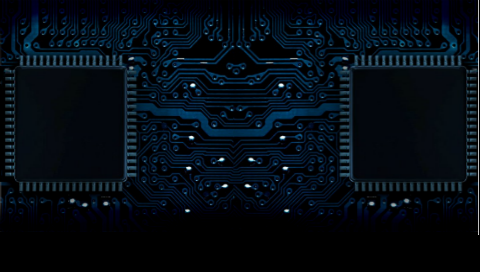
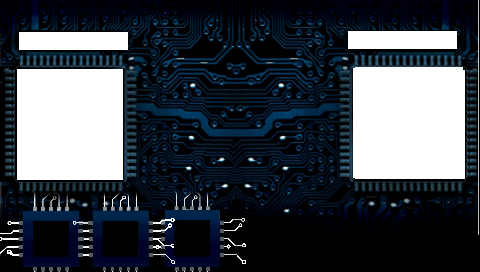
Updated the diceScreen so that it is more user friendly. It now has some basic interactoin with the battle class updated the battle screen so it has getters

diff --git a/app/src/main/java/uk/ac/qub/eeecs/game/RiskGame/DiceRollScreen.java b/app/src/main/java/uk/ac/qub/eeecs/game/RiskGame/DiceRollScreen.java
@@ -5,7 +5,6 @@ import android.graphics.Bitmap;
 import android.graphics.Color;
 import android.graphics.Paint;
 import android.graphics.Rect;
-
 import java.util.List;
 import uk.ac.qub.eeecs.gage.Game;
 import uk.ac.qub.eeecs.gage.engine.AssetManager;
@@ -17,6 +16,10 @@ import uk.ac.qub.eeecs.gage.ui.PushButton;
 import uk.ac.qub.eeecs.gage.util.ViewportHelper;
 import uk.ac.qub.eeecs.gage.world.GameScreen;
 import uk.ac.qub.eeecs.gage.world.ScreenViewport;
+import uk.ac.qub.eeecs.game.RiskGame.Battle;
+import uk.ac.qub.eeecs.game.RiskGame.RiskGameScreen;
+import uk.ac.qub.eeecs.game.RiskGame.Player;
+import uk.ac.qub.eeecs.game.RiskGame.Area;
 
 /**
  * Starter class for Card game stories
@@ -30,7 +33,6 @@ public class DiceRollScreen extends GameScreen {
     // /////////////////////////////////////////////////////////////////////////
 
     private Bitmap background;
-
     //////Dice Roll//////////
     private int numOfDice =0;
     private int numOfDiceTemp =0;
@@ -43,25 +45,30 @@ public class DiceRollScreen extends GameScreen {
     private PushButton mSelectDiceNum;
     private PushButton mSelectDiceNum2;
     private PushButton mSelectDiceNum3;
+    private PushButton mAbortHack;
+    private PushButton mRollDice;
     //end of dice items
 
     private Paint textPaint = new Paint();
     //the num_of_dice will be set by the player
     private DiceRoll diceRoll = new DiceRoll(numOfDice);
-    private DiceRoll diceRollDef = new DiceRoll(numOfDice);
+
+    //extra detail
+    private String attackersName = "";
+    private int attackersColour = -01000016;
+
+    private String defendersName = "";
+    private int defendersColour = -01000016;
 
 
-    private PushButton mReturnToMenuButton;
-    private PushButton mRollDice;
     private ScreenViewport mGameScreenViewport;
     private float mTimeToChange = 0;
 
     public DiceRollScreen(Game game) {
         super("RiskScreen", game);
         AssetManager assetManager = mGame.getAssetManager();
-        assetManager.loadAndAddBitmap("BackArrow", "img/BackArrow.png");
-        assetManager.loadAndAddBitmap("BackArrowSelected", "img/BackArrowSelected.png");
-        assetManager.loadAndAddBitmap("SpaceDemoIcon", "img/SpaceDemoIcon.png");
+        assetManager.loadAndAddBitmap("AbortHack", "img/dice/AbortHack.png");
+        assetManager.loadAndAddBitmap("AbortHackSelected", "img/dice/AbortHackSelected.png");
 
         //dice assets
         assetManager.loadAndAddBitmap("Roll1", "img/dice/Roll1.png");
@@ -74,17 +81,16 @@ public class DiceRollScreen extends GameScreen {
         assetManager.loadAndAddBitmap("ChooseDiceNumber3", "img/dice/ChooseDiceNumber3.png");
         assetManager.loadAndAddBitmap("background","img/dice/DiceRollScreenBackGround.png" );
 
-        //The backGround
+        //The background
         background = assetManager.getBitmap("background");
 
-
-        mReturnToMenuButton = new PushButton(
-                mDefaultLayerViewport.getWidth() * 0.95f,
-                mDefaultLayerViewport.getHeight() * 0.80f,
-                mDefaultLayerViewport.getWidth() * 0.075f,
-                mDefaultLayerViewport.getHeight() * 0.10f,
-                "BackArrow", "BackArrowSelected", this);
-        mReturnToMenuButton.setPlaySounds(true, true);
+        mAbortHack = new PushButton(
+                mDefaultLayerViewport.getWidth() * 0.65f,
+                mDefaultLayerViewport.getHeight() * 0.1f,
+                mDefaultLayerViewport.getWidth() * 0.15f,
+                mDefaultLayerViewport.getHeight() * 0.2f,
+                "AbortHack", "AbortHackSelected", this);
+        mAbortHack.setPlaySounds(true, true);
 
         //draws the dice hud.
         DrawDiceButtons();
@@ -95,6 +101,16 @@ public class DiceRollScreen extends GameScreen {
         mGameScreenViewport =
                 new ScreenViewport(0, 0, (int) screenWidth, (int) screenHeight);
 
+        /////////////// Battle Class Test ///////////////////////////////
+        //philip testing
+
+        Player attacker = new Player("Google", -01000016 );
+        Player defender = new Player("Apple", -01006616 );
+        Area area1 = new Area();
+        Area area2 = new Area();
+
+        Battle battle = new Battle(attacker, defender, area1, area2);
+        attackersName = battle.attackersName();
 
     }
 
@@ -122,8 +138,8 @@ public class DiceRollScreen extends GameScreen {
             mSelectDiceNum2.update(elapsedTime);
             mSelectDiceNum3.update(elapsedTime);
 
-            mReturnToMenuButton.update(elapsedTime);
-            if (mReturnToMenuButton.isPushTriggered())
+            mAbortHack.update(elapsedTime);
+            if (mAbortHack.isPushTriggered())
                 mGame.getScreenManager().removeScreen(this);
 
             //dice functions
@@ -145,7 +161,7 @@ public class DiceRollScreen extends GameScreen {
      */
     @Override
     public void draw(ElapsedTime elapsedTime, IGraphics2D graphics2D) {
-        graphics2D.clear(Color.WHITE);
+        graphics2D.clear(Color.BLACK);
 
 
         int screenWidth = graphics2D.getSurfaceWidth();
@@ -156,7 +172,7 @@ public class DiceRollScreen extends GameScreen {
         Rect destRect = new Rect((int) (screenWidth * 0.0f), (int) (screenHeight * 0.0f), (int) (screenWidth * 1.0f), (int) (screenHeight * 1.0f));
         graphics2D.drawBitmap(background, sourceRect, destRect, null);
 
-        mReturnToMenuButton.draw(elapsedTime, graphics2D, mDefaultLayerViewport, mDefaultScreenViewport);
+        mAbortHack.draw(elapsedTime, graphics2D, mDefaultLayerViewport, mDefaultScreenViewport);
 
 
         //draw the roll button, currently the attShowRoll isn't used
@@ -178,29 +194,38 @@ public class DiceRollScreen extends GameScreen {
                 break;
         }
 
-
-
-
+        //Details to be shown on the screen
         float textSize =
                 ViewportHelper.convertXDistanceFromLayerToScreen(
                         mDefaultLayerViewport.getHeight() * 0.05f,
                         mDefaultLayerViewport, mDefaultScreenViewport);
 
-        float lineHeight = screenHeight / 30.0f;
+        float lineHeight = screenHeight / 20.0f;
         textPaint.setTextSize(lineHeight);
         textPaint.setTextAlign(Paint.Align.LEFT);
+        textPaint.setColor(-01000016);
 
-        String diceString = "Dice Results: [ ";
-        for (int i = 0; i < numOfDice; i++) diceString += diceRoll.getDiceResults()[i] + " ";
+
+        String diceString = "Results: [ ";
+        for (int i = 0; i < numOfDice; i++) diceString += diceRoll.getDiceResults()[i] + ", ";
         graphics2D.drawText(diceString + "]",
-                0.0f, lineHeight + 120.0f, textPaint);
+                screenWidth * 0.45f, lineHeight + 250.0f, textPaint);
 
-        graphics2D.drawText("Total: [ " + diceRoll.getTotal() + " ]",
-                0.0f, lineHeight + 160.0f, textPaint);
+        graphics2D.drawText("Total: [ " + diceRoll.getTotal() + " ]", screenWidth * 0.45f, lineHeight + 200.0f, textPaint);
+
+        //graphics2D.drawText("Attackers Name", screenWidth * 0.05f, lineHeight + 140.0f, textPaint);
+        //graphics2D.drawText("Defend Name", screenWidth * 0.75f, lineHeight + 140.0f, textPaint);
+
+        //graphics2D.drawText("Attack Colour", 0.0f, lineHeight + 300.0f, textPaint);
+        //graphics2D.drawText("Defend Colour", 0.0f, lineHeight + 350.0f, textPaint);
+
+        //graphics2D.drawText("Teams remaining: ", 0.0f, lineHeight + 400.0f, textPaint);
+        //graphics2D.drawText("Teams remaining: ", 0.0f, lineHeight + 450.0f, textPaint);
 
 
 
     }
+
     ///////////////////////////////////////////////////
     //other methods;
     //////////////////////////////////////////////////
@@ -237,64 +262,63 @@ public class DiceRollScreen extends GameScreen {
 
         //The Roll Button
         mRollDice = new PushButton(
-                mDefaultLayerViewport.getWidth() * 0.08f,
+                mDefaultLayerViewport.getWidth() * 0.5f,
                 mDefaultLayerViewport.getHeight() * 0.5f,
                 mDefaultLayerViewport.getWidth() * 0.15f,
                 mDefaultLayerViewport.getHeight() * 0.2f,
                 "Roll1", "Roll2", this);
 
 
-        //These are the dice with no yellow outline and can be selected.
-        //The image with a dice
+//////////////////////////////////////////////////////////////////////////////////////////////////
+        //The images with a dice
         mSelectDiceNum = new PushButton(
-                mDefaultLayerViewport.getWidth() * 0.62f,
-                mDefaultLayerViewport.getHeight() * 0.08f,
-                mDefaultLayerViewport.getWidth() * 0.12f,
-                mDefaultLayerViewport.getHeight() * 0.17f,
+                mDefaultLayerViewport.getWidth() * 0.037f,
+                mDefaultLayerViewport.getHeight() * 0.115f,
+                mDefaultLayerViewport.getWidth() * 0.08f,
+                mDefaultLayerViewport.getHeight() * 0.1066f,
                 "Dice1Selected", "ChooseDiceNumber1", this);
-        mSelectDiceNum.setPlaySounds(true, true);
+
+        mNumOfDice1 = new PushButton(
+                mDefaultLayerViewport.getWidth() * 0.037f,
+                mDefaultLayerViewport.getHeight() * 0.115f,
+                mDefaultLayerViewport.getWidth() * 0.08f,
+                mDefaultLayerViewport.getHeight() * 0.1066f,
+                "ChooseDiceNumber1", "Dice1Selected", this);
+
+//////////////////////////////////////////////////////////////////////////////////////////////////
 
         //The image with two Dice
         mSelectDiceNum2 = new PushButton(
-                mDefaultLayerViewport.getWidth() * 0.75f,
-                mDefaultLayerViewport.getHeight() * 0.1f,
-                mDefaultLayerViewport.getWidth() * 0.15f,
-                mDefaultLayerViewport.getHeight() * 0.2f,
+                mDefaultLayerViewport.getWidth() * 0.205f,
+                mDefaultLayerViewport.getHeight() * 0.115f,
+                mDefaultLayerViewport.getWidth() * 0.08f,
+                mDefaultLayerViewport.getHeight() * 0.1066f,
                 "Dice2Selected", "ChooseDiceNumber2", this);
+
+        mNumOfDice2 = new PushButton(
+                mDefaultLayerViewport.getWidth() * 0.205f,
+                mDefaultLayerViewport.getHeight() * 0.115f,
+                mDefaultLayerViewport.getWidth() * 0.08f,
+                mDefaultLayerViewport.getHeight() * 0.1066f,
+                "ChooseDiceNumber2", "Dice2Selected", this);
+
+//////////////////////////////////////////////////////////////////////////////////////////////////
 
         //The image with 3 dice
         mSelectDiceNum3 = new PushButton(
-                mDefaultLayerViewport.getWidth() * 0.9f,
-                mDefaultLayerViewport.getHeight() * 0.1f,
-                mDefaultLayerViewport.getWidth() * 0.15f,
-                mDefaultLayerViewport.getHeight() * 0.2f,
+                mDefaultLayerViewport.getWidth() * 0.385f,
+                mDefaultLayerViewport.getHeight() * 0.118f,
+                mDefaultLayerViewport.getWidth() * 0.08f,
+                mDefaultLayerViewport.getHeight() * 0.1066f,
                 "Dice3Selected", "ChooseDiceNumber3", this);
 
-
-        //The buttons that have the yellow out line to show which one has been selected.
-        mNumOfDice1 = new PushButton(
-                mDefaultLayerViewport.getWidth() * 0.62f,
-                mDefaultLayerViewport.getHeight() * 0.08f,
-                mDefaultLayerViewport.getWidth() * 0.12f,
-                mDefaultLayerViewport.getHeight() * 0.17f,
-                "ChooseDiceNumber1", "Dice1Selected", this);
-        mNumOfDice1.setPlaySounds(true, true);
-
-        mNumOfDice2 = new PushButton(
-                mDefaultLayerViewport.getWidth() * 0.75f,
-                mDefaultLayerViewport.getHeight() * 0.1f,
-                mDefaultLayerViewport.getWidth() * 0.15f,
-                mDefaultLayerViewport.getHeight() * 0.2f,
-                "ChooseDiceNumber2", "Dice2Selected", this);
-        mNumOfDice2.setPlaySounds(true, true);
-
-
         mNumOfDice3 = new PushButton(
-                mDefaultLayerViewport.getWidth() * 0.9f,
-                mDefaultLayerViewport.getHeight() * 0.1f,
-                mDefaultLayerViewport.getWidth() * 0.15f,
-                mDefaultLayerViewport.getHeight() * 0.2f,
+                mDefaultLayerViewport.getWidth() * 0.385f,
+                mDefaultLayerViewport.getHeight() * 0.118f,
+                mDefaultLayerViewport.getWidth() * 0.08f,
+                mDefaultLayerViewport.getHeight() * 0.1066f,
                 "ChooseDiceNumber3", "Dice3Selected", this);
-        mNumOfDice3.setPlaySounds(true, true);
+
     }
+
 }

diff --git a/app/src/main/java/uk/ac/qub/eeecs/game/MenuScreen.java b/app/src/main/java/uk/ac/qub/eeecs/game/MenuScreen.java
@@ -20,6 +20,7 @@ import uk.ac.qub.eeecs.gage.ui.PushButton;
 import uk.ac.qub.eeecs.gage.world.GameObject;
 import uk.ac.qub.eeecs.gage.world.GameScreen;
 import uk.ac.qub.eeecs.gage.world.LayerViewport;
+import uk.ac.qub.eeecs.game.RiskGame.DiceRollScreen;
 import uk.ac.qub.eeecs.game.RiskGame.RiskGameScreen;
 import uk.ac.qub.eeecs.game.miscDemos.DemoMenuScreen;
 import uk.ac.qub.eeecs.game.platformDemo.PlatformDemoScreen;
@@ -155,7 +156,7 @@ public class MenuScreen extends GameScreen {
 
 
             if (mSpaceshipDemoButton.isPushTriggered())
-                mGame.getScreenManager().addScreen(new SpaceshipDemoScreen(mGame));
+                mGame.getScreenManager().addScreen(new DiceRollScreen(mGame));
             else if (mCardDemoButton.isPushTriggered())
                 mGame.getScreenManager().addScreen(new RiskGameScreen(mGame));
             else if (mPlatformDemoButton.isPushTriggered())

diff --git a/app/src/main/java/uk/ac/qub/eeecs/game/RiskGame/Battle.java b/app/src/main/java/uk/ac/qub/eeecs/game/RiskGame/Battle.java
@@ -34,4 +34,17 @@ public class Battle {
         }
         while (numOfAttArmies!= 0 || numOfDefArmies!=0);
     }
+
+    //getters for the dice class
+    //Philip Murphy
+
+    public String attackersName(){return attPlayer.getName();}
+    public String defendersName(){return defPlayer.getName();}
+
+    public int attackerColour(){return attPlayer.getColour();}
+    public int defenderColour(){return defPlayer.getColour();}
+
+
+
+
 }
